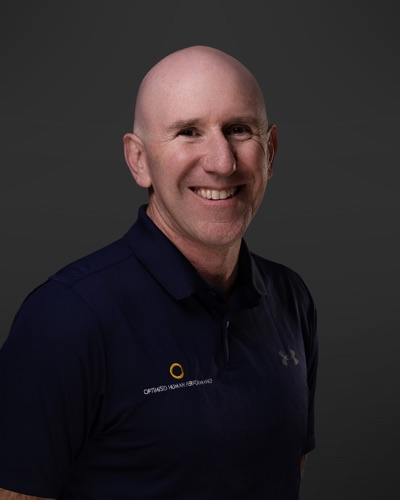
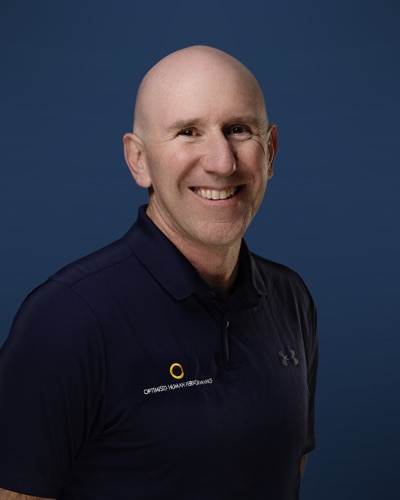
Identity: sheet and package line include brand colours and settings
- Identity sheet: twelve tiles across six looks, spread over white, black,
  navy and bronze brand colours, and skyline and corridor settings (three of
  each), drawn from the existing Authority, Brand Colour and Environmental
  libraries.
- Identity package line now reads "on studio backgrounds, in your brand
  colours or in agreed settings".

diff --git a/portraits/index.html b/portraits/index.html
@@ -178,7 +178,7 @@
         </div>
         <div class="pkg">
           <div class="pkg-head"><h3>Identity library</h3><p class="price"><data value="1600">$1,600</data></p></div>
-          <p>A planning conversation, then twelve photographs across up to six looks, on studio backgrounds or in agreed settings, in six formats. Masters kept for three years.</p>
+          <p>A planning conversation, then twelve photographs across up to six looks, on studio backgrounds, in your brand colours or in agreed settings, in six formats. Masters kept for three years.</p>
         </div>
         <div class="pkg">
           <div class="pkg-head"><h3>Teams</h3><p class="price"><data value="1850">$1,850</data></p></div>
@@ -230,19 +230,19 @@
         <div class="ladder-head"><h3>Identity library</h3><p class="price"><data value="1600">$1,600</data></p></div>
         <div class="ladder-grid">
           <img class="frame-4x5" src="/images/v2/package-identity-1-400.jpg" width="400" height="500" alt="Dr Anthony Walker, Look 1, vest and shirt, studio white" loading="lazy" decoding="async">
-          <img class="frame-4x5" src="/images/v2/package-identity-2-400.jpg" width="400" height="500" alt="Dr Anthony Walker, Look 1, vest and shirt, studio black" loading="lazy" decoding="async">
-          <img class="frame-4x5" src="/images/v2/package-identity-3-400.jpg" width="400" height="500" alt="Dr Anthony Walker, Look 2, blazer and knit, studio white" loading="lazy" decoding="async">
-          <img class="frame-4x5" src="/images/v2/package-identity-4-400.jpg" width="400" height="500" alt="Dr Anthony Walker, Look 2, blazer and knit, studio black" loading="lazy" decoding="async">
+          <img class="frame-4x5" src="/images/v2/package-identity-2-400.jpg" width="400" height="500" alt="Dr Anthony Walker, Look 1, vest and shirt, in a city skyline setting" loading="lazy" decoding="async">
+          <img class="frame-4x5" src="/images/v2/package-identity-3-400.jpg" width="400" height="500" alt="Dr Anthony Walker, Look 2, blazer and knit, studio black" loading="lazy" decoding="async">
+          <img class="frame-4x5" src="/images/v2/package-identity-4-400.jpg" width="400" height="500" alt="Dr Anthony Walker, Look 2, blazer and knit, in a glass corridor setting" loading="lazy" decoding="async">
           <img class="frame-4x5" src="/images/v2/package-identity-5-400.jpg" width="400" height="500" alt="Dr Anthony Walker, Look 3, suit and red tie, studio white" loading="lazy" decoding="async">
-          <img class="frame-4x5" src="/images/v2/package-identity-6-400.jpg" width="400" height="500" alt="Dr Anthony Walker, Look 3, suit and red tie, studio black" loading="lazy" decoding="async">
-          <img class="frame-4x5" src="/images/v2/package-identity-7-400.jpg" width="400" height="500" alt="Dr Anthony Walker, Look 4, open blazer, studio white" loading="lazy" decoding="async">
-          <img class="frame-4x5" src="/images/v2/package-identity-8-400.jpg" width="400" height="500" alt="Dr Anthony Walker, Look 4, open blazer, studio black" loading="lazy" decoding="async">
+          <img class="frame-4x5" src="/images/v2/package-identity-6-400.jpg" width="400" height="500" alt="Dr Anthony Walker, Look 3, suit and red tie, on the practice's navy" loading="lazy" decoding="async">
+          <img class="frame-4x5" src="/images/v2/package-identity-7-400.jpg" width="400" height="500" alt="Dr Anthony Walker, Look 4, open blazer, studio black" loading="lazy" decoding="async">
+          <img class="frame-4x5" src="/images/v2/package-identity-8-400.jpg" width="400" height="500" alt="Dr Anthony Walker, Look 4, open blazer, on the practice's bronze" loading="lazy" decoding="async">
           <img class="frame-4x5" src="/images/v2/package-identity-9-400.jpg" width="400" height="500" alt="Dr Anthony Walker, Look 5, white shirt, studio white" loading="lazy" decoding="async">
-          <img class="frame-4x5" src="/images/v2/package-identity-10-400.jpg" width="400" height="500" alt="Dr Anthony Walker, Look 5, white shirt, studio black" loading="lazy" decoding="async">
-          <img class="frame-4x5" src="/images/v2/package-identity-11-400.jpg" width="400" height="500" alt="Dr Anthony Walker, Look 6, OHP branded polo, studio white" loading="lazy" decoding="async">
-          <img class="frame-4x5" src="/images/v2/package-identity-12-400.jpg" width="400" height="500" alt="Dr Anthony Walker, Look 6, OHP branded polo, studio black" loading="lazy" decoding="async">
+          <img class="frame-4x5" src="/images/v2/package-identity-10-400.jpg" width="400" height="500" alt="Dr Anthony Walker, Look 5, white shirt, in a city skyline setting" loading="lazy" decoding="async">
+          <img class="frame-4x5" src="/images/v2/package-identity-11-400.jpg" width="400" height="500" alt="Dr Anthony Walker, Look 6, OHP branded polo, studio black" loading="lazy" decoding="async">
+          <img class="frame-4x5" src="/images/v2/package-identity-12-400.jpg" width="400" height="500" alt="Dr Anthony Walker, Look 6, OHP branded polo, on the practice's navy" loading="lazy" decoding="async">
         </div>
-        <figcaption class="caption">Twelve photographs from six looks, each on white and on black. Dr Anthony Walker, from one 54-minute session. <a class="text-link" href="/evidence/walker-ohp/">Read how it was built</a></figcaption>
+        <figcaption class="caption">Twelve photographs from six looks, on white, black, brand colours and in two settings. Dr Anthony Walker, from one 54-minute session. <a class="text-link" href="/evidence/walker-ohp/">Read how it was built</a></figcaption>
       </figure>
     </section>
 
